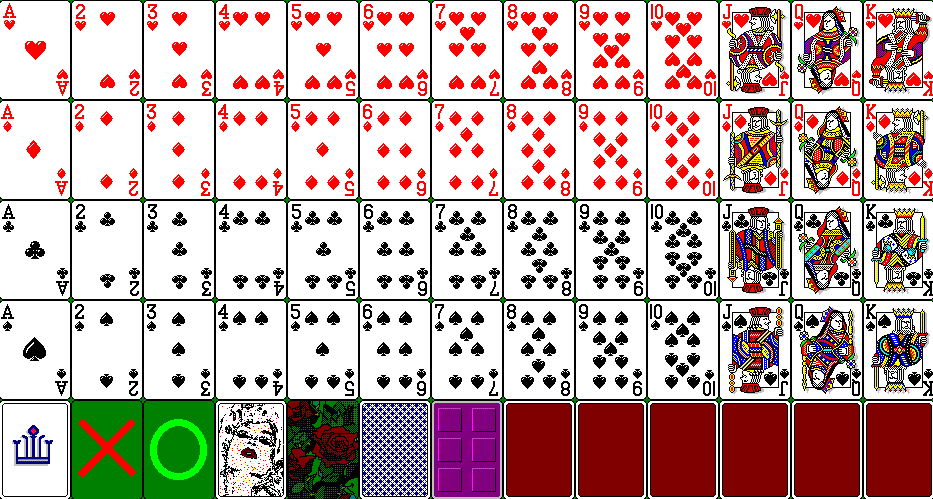
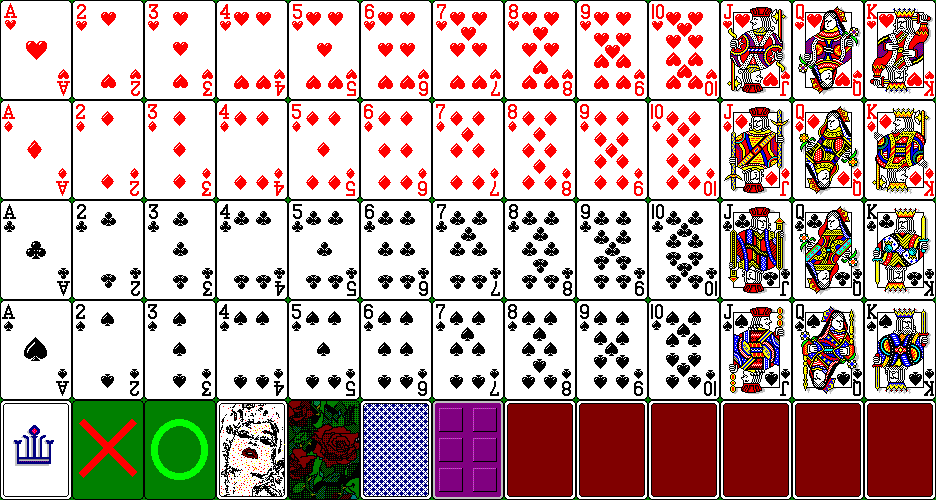
MADE IT LOOK GOOD

diff --git a/CS206Project/CS206Project/CS206Project/GameScreen.cs b/CS206Project/CS206Project/CS206Project/GameScreen.cs
@@ -112,40 +112,49 @@ namespace CS206Project
             players[0].field[7].Draw(game, fields[0, 7]);
 
             //Draws player 1's field
-            game.spriteBatch.Draw(pixel, fields[1, 0], null, Color.White, (float)1.57, Vector2.Zero, SpriteEffects.None, (float)0);
-            game.spriteBatch.Draw(pixel, fields[1, 1], null, Color.White, (float)1.57, Vector2.Zero, SpriteEffects.None, (float)0);
-            game.spriteBatch.Draw(pixel, fields[1, 2], null, Color.White, (float)1.57, Vector2.Zero, SpriteEffects.None, (float)0);
-            game.spriteBatch.Draw(pixel, fields[1, 3], null, Color.White, (float)1.57, Vector2.Zero, SpriteEffects.None, (float)0);
-            game.spriteBatch.Draw(pixel, fields[1, 4], null, Color.White, (float)1.57, Vector2.Zero, SpriteEffects.None, (float)0);
-            game.spriteBatch.Draw(pixel, fields[1, 5], null, Color.White, (float)1.57, Vector2.Zero, SpriteEffects.None, (float)0);
-            game.spriteBatch.Draw(pixel, fields[1, 6], null, Color.White, (float)1.57, Vector2.Zero, SpriteEffects.None, (float)0);
-            game.spriteBatch.Draw(pixel, fields[1, 7], null, Color.White, (float)1.57, Vector2.Zero, SpriteEffects.None, (float)0);
+            players[1].field[0].Draw(game, fields[1, 0], 1.57f);
+            players[1].field[1].Draw(game, fields[1, 1], 1.57f);
+            players[1].field[2].Draw(game, fields[1, 2], 1.57f);
+            players[1].field[3].Draw(game, fields[1, 3], 1.57f);
+            players[1].field[4].Draw(game, fields[1, 4], 1.57f);
+            players[1].field[5].Draw(game, fields[1, 5], 1.57f);
+            players[1].field[6].Draw(game, fields[1, 6], 1.57f);
+            players[1].field[7].Draw(game, fields[1, 7], 1.57f);
 
 
             //Draws player 2's field
-            game.spriteBatch.Draw(pixel, fields[2, 0], Color.White);
-            game.spriteBatch.Draw(pixel, fields[2, 1], Color.White);
-            game.spriteBatch.Draw(pixel, fields[2, 2], Color.White);
-            game.spriteBatch.Draw(pixel, fields[2, 3], Color.White);
-            game.spriteBatch.Draw(pixel, fields[2, 4], Color.White);
-            game.spriteBatch.Draw(pixel, fields[2, 5], Color.White);
-            game.spriteBatch.Draw(pixel, fields[2, 6], Color.White);
-            game.spriteBatch.Draw(pixel, fields[2, 7], Color.White);
+            players[2].field[0].Draw(game, fields[2, 0]);
+            players[2].field[1].Draw(game, fields[2, 1]);
+            players[2].field[2].Draw(game, fields[2, 2]);
+            players[2].field[3].Draw(game, fields[2, 3]);
+            players[2].field[4].Draw(game, fields[2, 4]);
+            players[2].field[5].Draw(game, fields[2, 5]);
+            players[2].field[6].Draw(game, fields[2, 6]);
+            players[2].field[7].Draw(game, fields[2, 7]);
 
 
             //Draws player 3's field
-            game.spriteBatch.Draw(pixel, fields[3, 0], null, Color.White, (float)1.57, Vector2.Zero, SpriteEffects.None, (float)0);
-            game.spriteBatch.Draw(pixel, fields[3, 1], null, Color.White, (float)1.57, Vector2.Zero, SpriteEffects.None, (float)0);
-            game.spriteBatch.Draw(pixel, fields[3, 2], null, Color.White, (float)1.57, Vector2.Zero, SpriteEffects.None, (float)0);
-            game.spriteBatch.Draw(pixel, fields[3, 3], null, Color.White, (float)1.57, Vector2.Zero, SpriteEffects.None, (float)0);
-            game.spriteBatch.Draw(pixel, fields[3, 4], null, Color.White, (float)1.57, Vector2.Zero, SpriteEffects.None, (float)0);
-            game.spriteBatch.Draw(pixel, fields[3, 5], null, Color.White, (float)1.57, Vector2.Zero, SpriteEffects.None, (float)0);
-            game.spriteBatch.Draw(pixel, fields[3, 6], null, Color.White, (float)1.57, Vector2.Zero, SpriteEffects.None, (float)0);
-            game.spriteBatch.Draw(pixel, fields[3, 7], null, Color.White, (float)1.57, Vector2.Zero, SpriteEffects.None, (float)0);
+            players[3].field[0].Draw(game, fields[3, 0], 1.57f);
+            players[3].field[1].Draw(game, fields[3, 1], 1.57f);
+            players[3].field[2].Draw(game, fields[3, 2], 1.57f);
+            players[3].field[3].Draw(game, fields[3, 3], 1.57f);
+            players[3].field[4].Draw(game, fields[3, 4], 1.57f);
+            players[3].field[5].Draw(game, fields[3, 5], 1.57f);
+            players[3].field[6].Draw(game, fields[3, 6], 1.57f);
+            players[3].field[7].Draw(game, fields[3, 7], 1.57f);
 
 
-            game.spriteBatch.Draw(pixel, deck_location, Color.White);
-            game.spriteBatch.Draw(pixel, discard_location, Color.White);
+            // draw deck pile
+            deck[0].Draw(game, deck_location);
+
+            // draw discard pile
+            if (discardPile.Count > 0)
+                discardPile[discardPile.Count - 1].Draw(game, discard_location);
+            else
+                Card.Blank.Draw(game, discard_location);
+
+            players[currentPlayer].Draw(game, time);
+
             return true;
         }
 

diff --git a/CS206Project/CS206Project/CS206Project/Card.cs b/CS206Project/CS206Project/CS206Project/Card.cs
@@ -22,16 +22,17 @@ namespace CS206Project
             visible = false;
             return true;
         }
-        public void Draw(Game1 game, Rectangle dest)
+        public void Draw(Game1 game, Rectangle dest, float rotation = 0.0f)
         {
-            if (isVisible())
-            {
-                game.spriteBatch.Draw(game.settings.images, dest, game.settings.cardBacks[suit-1, number-1], Color.White);
-            }
+            Rectangle src;
+            if (visible)
+                src = new Rectangle(game.settings.images.Width / 13 * (number - 1), game.settings.images.Height / 5 * (suit - 1), game.settings.images.Width / 13, game.settings.images.Height / 5);
+            else if (number == 0 || suit == 0)
+                src = new Rectangle(game.settings.images.Width / 13 * (1), game.settings.images.Height / 5 * (4), game.settings.images.Width / 13, game.settings.images.Height / 5);
             else
-            {
-                game.spriteBatch.Draw(game.settings.images, dest, game.settings.cardBacks[4, 5], Color.White);
-            }
+                src = new Rectangle(game.settings.images.Width / 13 * (5), game.settings.images.Height / 5 * (4), game.settings.images.Width / 13, game.settings.images.Height / 5);
+
+            game.spriteBatch.Draw(game.settings.images, dest, src, Color.White, rotation, Vector2.Zero, SpriteEffects.None, 1.0f);
         }
 
         public Card(int newNumber, int newSuit)

diff --git a/CS206Project/CS206Project/CS206Project/Player.cs b/CS206Project/CS206Project/CS206Project/Player.cs
@@ -180,7 +180,8 @@ namespace CS206Project
 
         public override bool Draw(Game1 game, GameTime time)
         {
-            
+            MouseState state = Mouse.GetState();
+            hand.Draw(game, new Rectangle(state.X, state.Y, 50, 100));
             return true;
         }
     }

diff --git a/CS206Project/CS206Project/CS206Project/PlayerAI.cs b/CS206Project/CS206Project/CS206Project/PlayerAI.cs
@@ -64,7 +64,7 @@ namespace CS206Project
         }
         public override bool Draw(Game1 game, Microsoft.Xna.Framework.GameTime time)
         {
-            throw new NotImplementedException();
+            return true;
         }
 
         public void drawCard(GameScreen gamescreen)
